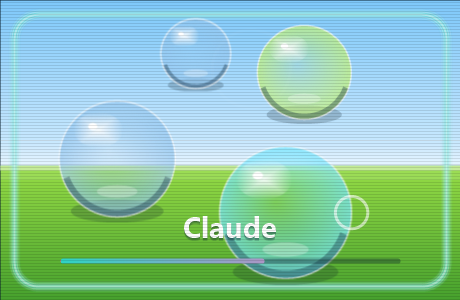
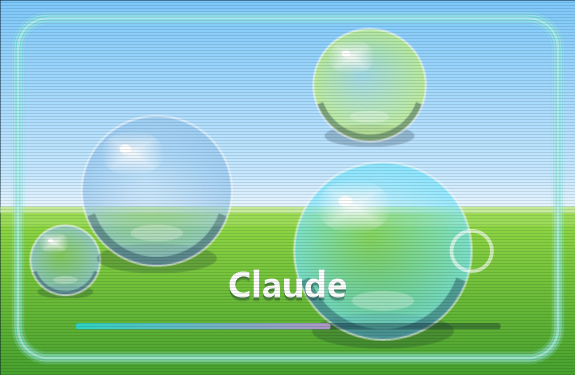
1.3.1: bigger card, heavier and slower orbs, louder hard hits, gentler paste sequence
The 1.3.0 paste sequence failed on a real start while Claude was still
loading; it now pastes, waits, runs, checks the marker and only then falls
back to the paste-warning dance. Card is a quarter larger, radii 26-77 px,
speed halved, mass ~ r^2.5, loudness curve steeper with a higher ceiling.

Changed region(s): [[0.0, 0.0, 1.0, 0.96]]

diff --git a/installer/Orbs.cs b/installer/Orbs.cs
@@ -19,8 +19,9 @@ class Orb
 
 class Scene
 {
-    public const float Step = 1f / 60f, MaxSpeed = 14f, MouseForce = 9000f, Restitution = 0.92f, WallRestitution = 0.9f, Damping = 0.995f;
-    public const float MinClosingSpeed = 0.4f; // px per step; slower touches do not ring
+    // Heavy, slow glass: half the speed of the first version, more drag, and mass growing faster than area.
+    public const float Step = 1f / 60f, MaxSpeed = 7f, MouseForce = 4500f, Restitution = 0.9f, WallRestitution = 0.85f, Damping = 0.99f;
+    public const float MinClosingSpeed = 0.2f; // px per step; slower touches do not ring
     public readonly List<Orb> Orbs = new List<Orb>();
     public readonly List<float[]> Hits = new List<float[]>(); // x, y, age (starts negative so the flash lands when the bell is heard)
     public RectangleF Bounds;
@@ -36,7 +37,7 @@ class Scene
         for (int i = 0; i < 5; i++) for (int j = 0; j < 5; j++) lastRing[i, j] = -1000;
         int count = 4 + rng.Next(2);
         Color[] tints = { Color.FromArgb(120, 230, 255), Color.FromArgb(196, 242, 120), Color.FromArgb(200, 170, 255), Color.FromArgb(150, 200, 240), Color.FromArgb(255, 190, 220) };
-        var radii = new List<float>(); for (int i = 0; i < count; i++) radii.Add(34 + rng.Next(37));
+        var radii = new List<float>(); for (int i = 0; i < count; i++) radii.Add(26 + rng.Next(52)); // 26 to 77 px: a clear small-to-large spread
         radii.Sort((a, b) => b.CompareTo(a)); // largest placed first, so the small ones fill the gaps
         // Fundamentals a laptop speaker can play, 4 to 7 Hz apart so every pair beats audibly (widest pair under 30 Hz).
         float f = 180 + (float)rng.NextDouble() * 420;
@@ -61,8 +62,8 @@ class Scene
                 }
             }
             o.X = bestX; o.Y = bestY;
-            o.Mass = o.R * o.R;
-            double a = rng.NextDouble() * Math.PI * 2; float v = 0.6f + (float)rng.NextDouble() * 1.2f;
+            o.Mass = (float)Math.Pow(o.R, 2.5);
+            double a = rng.NextDouble() * Math.PI * 2; float v = 0.3f + (float)rng.NextDouble() * 0.6f;
             o.Vx = (float)Math.Cos(a) * v; o.Vy = (float)Math.Sin(a) * v;
             Orbs.Add(o);
         }
@@ -98,10 +99,10 @@ class Scene
                 bool first = !touching[i, j]; touching[i, j] = true;
                 if (!first || -vrel < MinClosingSpeed || step - lastRing[i, j] < 18) continue;
                 lastRing[i, j] = step;
-                // Loudness from the closing speed, a little heavier for big pairs: a gentle drift is a soft bell,
-                // a mouse-flung orb is a full strike.
-                float size = 0.6f + 0.4f * (float)Math.Sqrt(1 / (ia + ib) / 2450f);
-                float loud = Math.Min(1f, -vrel / (2 * MaxSpeed) * 2.2f * size);
+                // Loudness from the closing speed, heavier for big pairs, with a curve that keeps drifts
+                // soft and lets a hard mouse-flung hit go all the way: force decides the volume.
+                float size = 0.6f + 0.4f * (float)Math.Min(1, Math.Sqrt(1 / (ia + ib) / 30000f));
+                float loud = Math.Min(1f, (float)Math.Pow(-vrel / (1.6f * MaxSpeed), 1.3) * 1.3f * size);
                 Collisions++;
                 Hits.Add(new[] { a.X + nx * a.R, a.Y + ny * a.R, -0.25f });
                 if (Struck != null) Struck(a, b, loud);
@@ -143,7 +144,7 @@ class Synth : IDisposable
     static readonly float TailDecay = (float)Math.Exp(-1.0 / (0.01 * Rate));
     readonly object gate = new object();
     long rendered; // absolute frames rendered so far; a strike starts at the next frame rendered
-    const float Attack = 1f / (0.06f * Rate), Release = 1f / (0.3f * Rate), BellAttackFrames = 0.015f * Rate, MasterGain = 0.6f, Silent = 3e-5f;
+    const float Attack = 1f / (0.06f * Rate), Release = 1f / (0.3f * Rate), BellAttackFrames = 0.015f * Rate, MasterGain = 0.75f, Silent = 3e-5f;
 
     public void SetMotion(int voice, float freq, float speed)
     {
@@ -174,7 +175,7 @@ class Synth : IDisposable
                 for (int side = 0; side < 2; side++)
                 {
                     int k = side * Partials + p; float f = (side == 0 ? fA : fB) * PartialRatio[p];
-                    bInc[slot, k] = f / Rate; bAmp[slot, k] = PartialAmp[p] * loud * 0.5f; // phases continue: no step in the waveform
+                    bInc[slot, k] = f / Rate; bAmp[slot, k] = PartialAmp[p] * loud * 0.7f; // phases continue: no step in the waveform
                     bDecay[slot, k] = (float)Math.Exp(-1.0 / (PartialDecay[p] * Rate));
                 }
             bStart[slot] = rendered; bActive[slot] = true;
@@ -311,13 +312,18 @@ static class SelfTest
         var pair = new Scene(new Random(3), bounds);
         while (pair.Orbs.Count > 2) pair.Orbs.RemoveAt(2);
         Orb A = pair.Orbs[0], B = pair.Orbs[1];
-        A.X = 150; A.Y = 120; A.Vx = 6; A.Vy = 0; B.X = 150 + A.R + B.R + 8; B.Y = 120; B.Vx = -6; B.Vy = 0;
+        A.X = 150; A.Y = 120; A.Vx = 3.5f; A.Vy = 0; B.X = 150 + A.R + B.R + 8; B.Y = 120; B.Vx = -3.5f; B.Vy = 0;
         float px0 = A.Mass * A.Vx + B.Mass * B.Vx; float loudSeen = -1; pair.Struck = (a, b, l) => loudSeen = l;
         for (int t = 0; t < 10; t++) pair.Tick();
         float px1 = A.Mass * A.Vx + B.Mass * B.Vx, expected = px0 * (float)Math.Pow(Scene.Damping, 10); // damping takes its share each step; the collision must take none
         check(Math.Abs(px1 - expected) < Math.Abs(px0) * 0.01f + 1, "head-on: momentum conserved apart from damping (" + px0.ToString("0") + " -> " + px1.ToString("0") + ", expected " + expected.ToString("0") + ")");
         check(A.Vx < 0 && B.Vx > 0 && Scene.Dist(A, B) >= A.R + B.R, "head-on: they bounce apart");
-        check(loudSeen > 0.5f && loudSeen <= 1f, "head-on at 12 px/step closing: loud bell " + loudSeen.ToString("0.00"));
+        check(loudSeen > 0.5f && loudSeen <= 1f, "head-on at the speed cap: loud bell " + loudSeen.ToString("0.00"));
+        var soft = new Scene(new Random(3), bounds); while (soft.Orbs.Count > 2) soft.Orbs.RemoveAt(2);
+        Orb C = soft.Orbs[0], D = soft.Orbs[1]; C.X = 150; C.Y = 120; C.Vx = 0.3f; C.Vy = 0; D.X = 150 + C.R + D.R + 2; D.Y = 120; D.Vx = -0.3f; D.Vy = 0;
+        float softLoud = -1; soft.Struck = (a, b, l) => softLoud = l;
+        for (int t = 0; t < 10; t++) soft.Tick();
+        check(softLoud > 0 && softLoud < 0.25f, "drifting touch: soft bell " + softLoud.ToString("0.00"));
 
         // Repulsion: a parked cursor pushes the orbs away.
         var rep = new Scene(new Random(5), bounds); rep.MouseX = 230; rep.MouseY = 120;

diff --git a/installer/TechnozenInstaller.cs b/installer/TechnozenInstaller.cs
@@ -347,7 +347,7 @@ class Watcher : ApplicationContext
     static bool Inject(IntPtr devtools, IntPtr main, Action<float> progress)
     {
         Thread.Sleep(2000); // let the DevTools frontend finish loading
-        for (int attempt = 0; attempt < 6; attempt++)
+        for (int attempt = 0; attempt < 4; attempt++)
         {
             progress(0.2f);
             try { Clipboard.SetText(Snippet.Text); } catch { Thread.Sleep(500); continue; }
@@ -357,21 +357,27 @@ class Watcher : ApplicationContext
             if (Native.GetForegroundWindow() != devtools) { Log("devtools not in front, retrying"); Thread.Sleep(700); continue; }
             progress(0.3f);
             // Command menu > "Show Console" puts the cursor in the console prompt whatever panel was open.
-            SendKeys.SendWait("^+p"); Thread.Sleep(500);
-            SendKeys.SendWait("Show Console"); Thread.Sleep(400);
-            SendKeys.SendWait("{ENTER}"); Thread.Sleep(600);
+            SendKeys.SendWait("^+p"); Thread.Sleep(600);
+            SendKeys.SendWait("Show Console"); Thread.Sleep(500);
+            SendKeys.SendWait("{ENTER}"); Thread.Sleep(800);
             progress(0.45f);
-            // DevTools blocks the first paste ever with a self-XSS warning until "allow pasting" is typed.
-            // Paste, answer the warning, paste again: with the warning the first paste is empty and the
-            // second runs; without it the first attempt becomes a syntax error (runs nothing) and the second runs.
-            SendKeys.SendWait("^v"); Thread.Sleep(500);
+            // Paste and run. The waits are generous: Claude is still starting and the console has to
+            // digest 130 KB before Enter means anything.
+            SendKeys.SendWait("^v"); Thread.Sleep(1500);
             progress(0.6f);
-            SendKeys.SendWait("allow pasting{ENTER}"); Thread.Sleep(500);
-            SendKeys.SendWait("^v"); Thread.Sleep(900);
+            SendKeys.SendWait("{ENTER}"); Thread.Sleep(1500);
             progress(0.8f);
-            SendKeys.SendWait("{ENTER}"); Thread.Sleep(900);
+            if (main != IntPtr.Zero && !ThemeRan(main))
+            {
+                // The first paste ever into this DevTools shows a self-XSS warning instead of pasting;
+                // "allow pasting" answers it, then the paste is repeated.
+                Log("no marker after attempt " + (attempt + 1) + "; answering the paste warning and pasting again");
+                SendKeys.SendWait("allow pasting{ENTER}"); Thread.Sleep(800);
+                SendKeys.SendWait("^v"); Thread.Sleep(1500);
+                SendKeys.SendWait("{ENTER}"); Thread.Sleep(1500);
+            }
             progress(0.9f);
-            if (main != IntPtr.Zero && !ThemeRan(main)) { Log("no marker after attempt " + (attempt + 1) + ", retrying"); Thread.Sleep(1000); continue; }
+            if (main != IntPtr.Zero && !ThemeRan(main)) { Log("still no marker, retrying"); Thread.Sleep(1000); continue; }
             progress(1f);
             Native.PostMessage(devtools, Native.WM_CLOSE, IntPtr.Zero, IntPtr.Zero);
             return true;
@@ -409,7 +415,7 @@ class Loader : Form
         FormBorderStyle = FormBorderStyle.None;
         StartPosition = FormStartPosition.CenterScreen;
         AutoScaleMode = AutoScaleMode.None;
-        scale = DeviceDpi / 96f;
+        scale = DeviceDpi / 96f * 1.25f; // the card is laid out at 460x300 and shown a quarter larger
         ClientSize = new Size((int)(W * scale), (int)(H * scale));
         TopMost = true;
         ShowInTaskbar = true;

diff --git a/installer/build_exe.py b/installer/build_exe.py
@@ -5,7 +5,7 @@ import pathlib
 import subprocess
 import sys
 
-VERSION = "1.3.0"   # shown in the installer's title bar and used for the release file name
+VERSION = "1.3.1"   # shown in the installer's title bar and used for the release file name
 HERE = pathlib.Path(__file__).parent
 SNIPPET = HERE.parent / "dist" / "technozen.snippet.js"
 CSC = pathlib.Path(r"C:\Windows\Microsoft.NET\Framework64\v4.0.30319\csc.exe")

diff --git a/NOTES.md b/NOTES.md
@@ -94,6 +94,8 @@ A third adversarial review (three reviewers, each finding re-checked with C# har
 
 `installer/Orbs.cs`: `Scene` is a 60 Hz fixed-step physics with 4 or 5 circles (mass = radius squared), inverse-square mouse repulsion (`9000 / (d² + 400)`, cut off beyond 500 px, speed capped at 14 px per step), 0.995 damping, elastic collisions (restitution 0.92, overlap split by inverse mass, standard normal impulse), walls resolved after collisions so nothing can be pushed out. A strike only counts when its loudness (impulse / 25000) is at least 0.06 and that pair has not rung in the last 150 ms. `Synth` streams 48 kHz 16-bit stereo through `waveOut` with four 20 ms buffers filled by its own thread; a 4096-entry sine table, one motion sine per orb with speed-driven amplitude (60 ms attack, 300 ms release), up to four bells of four partials each (ratios 1, 2, 2.76, 4.07; decays 2, 1.4, 0.9, 0.6 s as per-sample multiplies), left partials on one orb's fundamental and right partials on the other's, a strike scheduled at the next rendered frame, tanh limiter, master 0.6. Fundamentals are picked 180 to 600 Hz with 4 to 9 Hz between neighbours so every pair beats audibly; the owner's 40/60 Hz example would be inaudible on laptop speakers, which is written in the brief. `--selftest report.txt` checks it headlessly: 2000 seeds place without overlap and with every pair beating at 3 to 30 Hz; a scripted head-on collision conserves momentum (apart from damping), separates and rings loud; a parked cursor repels; a 10 s sweep stays finite and contained, energy only decays once the mouse leaves, strikes land in a sane count; a cursor-pinned pair rings at most every 300 ms (contact-based ringing with a 4 px separation hysteresis); the offline render has a sane peak and RMS, true stereo difference, a strike scheduled at the next rendered frame and loudest within one buffer; voice stealing does not click (a stolen bell fades out in a 10 ms tail instead of stopping dead); the WAVEHDR flags offset matches the process bitness; and, when a sound device exists, the real stream keeps rendering past its first queued buffers. That last check exists because the review found the shipped 64-bit build reading the flags at the 32-bit offset, which would have silenced the card after 80 ms. The card logs the chosen frequencies, whether a sound device opened and the DPI scale.
 
+1.3.1: the owner's first 1.3.0 start failed all six paste attempts (log: DevTools found at 994 ms, no marker ever, 44 s of card). A harness proved the input shield passes the helper's own keystrokes (SendKeys and SendInput both arrive with the injected flag), and Claude had not updated, so the likely cause is timing: the old sequence pasted 130 KB, typed "allow pasting", pasted again and pressed Enter with half-second gaps while Claude was still starting and the card now also costs CPU. The sequence is now paste, wait 1.5 s, Enter, wait 1.5 s, check the marker; only if it is missing does it answer the one-time paste warning and paste again; four attempts at most, so a failed start costs about 25 s, not 44. Also on the owner's request: the card is a quarter larger (one scale factor), orb radii spread 26 to 77 px, speed halved (cap 7 px per step, half the mouse force, drag 0.99), mass grows as radius^2.5, and loudness follows closing speed with a steeper curve and a higher ceiling (bell amplitude 0.7, master 0.75).
+
 Known latency: a strike starts at the next rendered buffer and sits behind up to three queued 20 ms buffers plus the audio stack, so the bell is heard roughly 60 to 100 ms after the collision; the flash ring is delayed by 75 ms to meet it. Sub-buffer alignment is not possible through winmm and is not attempted. The helper itself now scans for Claude twice a second and caches which pids are the app; the 1.2.x helper queried every process's path ten times a second and cost several percent of a core.
 
 ## Known gaps
